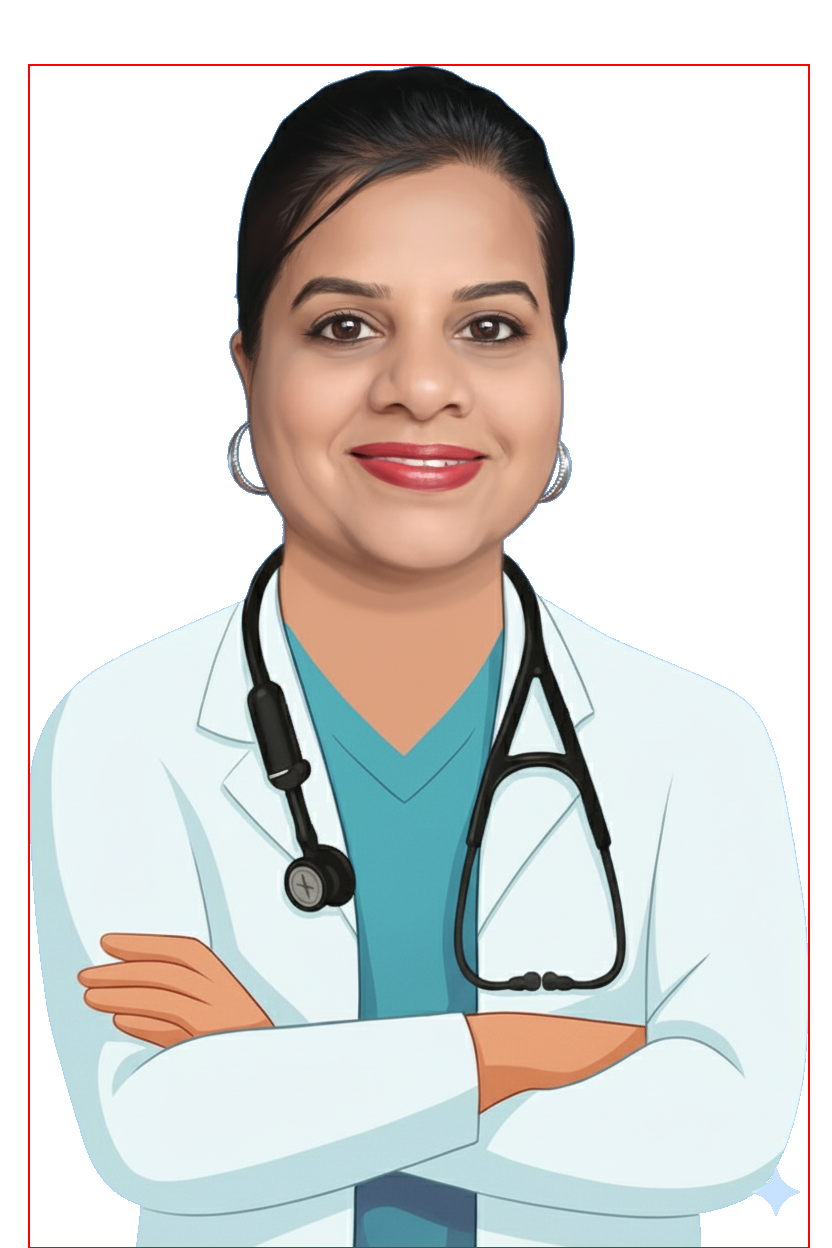
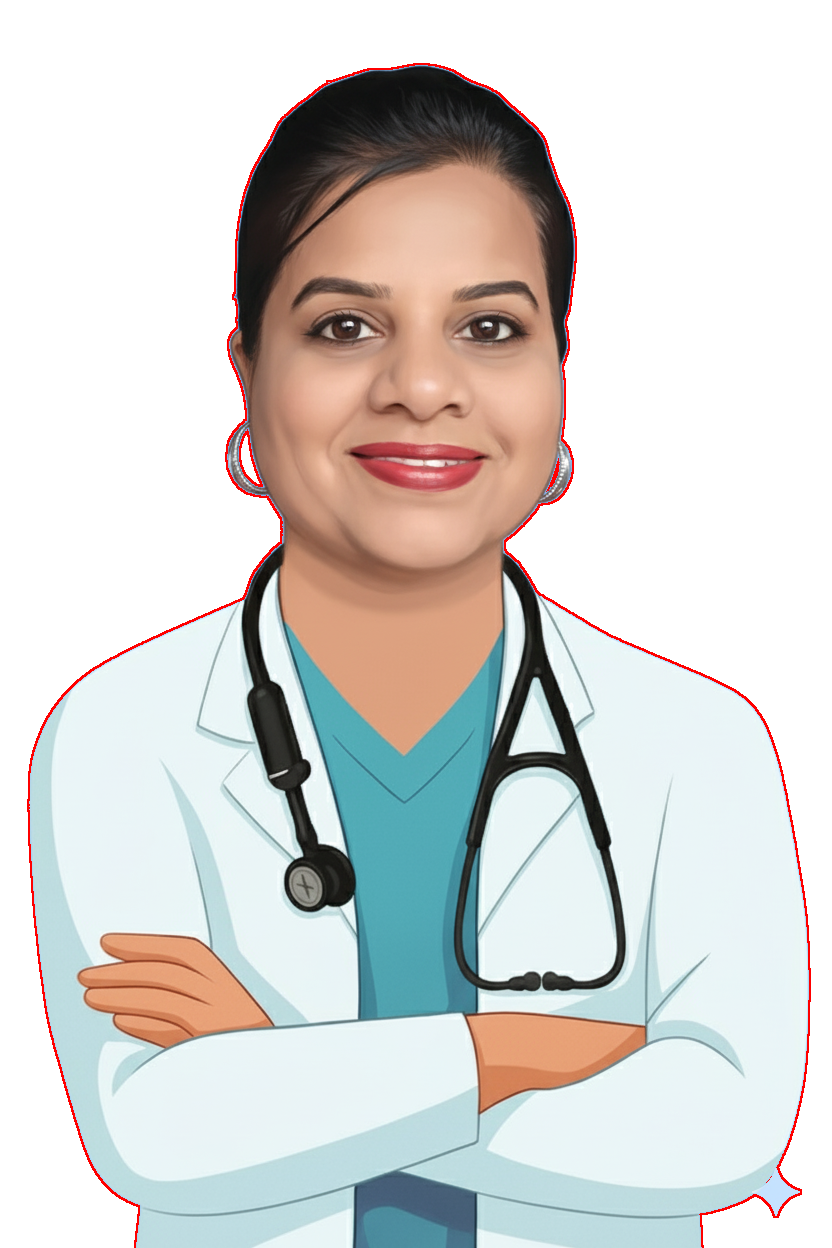
Fix border addition to follow subject silhouette contour
- Rewrite border algorithm to use morphological dilation instead of bounding box
- Border now follows exact shape/contour of subject, not rectangular frame
- Add scipy dependency for binary dilation operations
- Update README with corrected algorithm explanation and visual representation
- Update example output image to show contour-following border
- Add scipy>=1.10.0 to requirements.txt (both root and module)

The border now wraps around the actual person shape using pixel-by-pixel dilation.

diff --git a/border-addition/add_border.py b/border-addition/add_border.py
@@ -1,15 +1,16 @@
 #!/usr/bin/env python3
 """
 Border Addition Module
-Adds colored borders around the subject (non-transparent area) in transparent PNG images.
+Adds colored borders around the subject silhouette in transparent PNG images.
 """
 
 import os
 import sys
 import argparse
 from pathlib import Path
-from PIL import Image, ImageDraw
+from PIL import Image
 import numpy as np
+from scipy.ndimage import binary_dilation
 
 
 def hex_to_rgb(hex_color):
@@ -18,47 +19,9 @@ def hex_to_rgb(hex_color):
     return tuple(int(hex_color[i:i+2], 16) for i in (0, 2, 4))
 
 
-def get_subject_bbox(img):
-    """
-    Get bounding box of non-transparent pixels (the subject).
-
-    Args:
-        img: PIL Image in RGBA mode
-
-    Returns:
-        tuple: (left, top, right, bottom) or None if no non-transparent pixels found
-    """
-    # Convert to numpy array
-    data = np.array(img)
-
-    # Get alpha channel
-    alpha = data[:, :, 3]
-
-    # Find non-transparent pixels (alpha > 0)
-    non_transparent = alpha > 0
-
-    # Find rows and columns with non-transparent pixels
-    rows = np.any(non_transparent, axis=1)
-    cols = np.any(non_transparent, axis=0)
-
-    if not rows.any() or not cols.any():
-        return None
-
-    # Get bounding box
-    row_indices = np.where(rows)[0]
-    col_indices = np.where(cols)[0]
-
-    top = row_indices[0]
-    bottom = row_indices[-1]
-    left = col_indices[0]
-    right = col_indices[-1]
-
-    return (left, top, right, bottom)
-
-
 def add_border_to_subject(input_path, output_path, border_color='#FF0000', border_width=2):
     """
-    Add border around the subject (non-transparent area) in transparent PNG.
+    Add border around the subject silhouette (following the contour) in transparent PNG.
 
     Args:
         input_path (str): Path to input PNG file (with transparency)
@@ -78,42 +41,44 @@ def add_border_to_subject(input_path, output_path, border_color='#FF0000', borde
             print(f"⚠ Warning: {input_path} is not in RGBA mode. Converting...")
             img = img.convert('RGBA')
 
-        # Get bounding box of subject
-        bbox = get_subject_bbox(img)
+        # Convert to numpy array
+        data = np.array(img)
 
-        if bbox is None:
+        # Get alpha channel
+        alpha = data[:, :, 3]
+
+        # Create binary mask of non-transparent pixels (subject)
+        subject_mask = alpha > 0
+
+        if not subject_mask.any():
             print(f"⚠ Warning: No non-transparent pixels found in {input_path}")
             # Still save the image (no border added)
             os.makedirs(os.path.dirname(output_path) if os.path.dirname(output_path) else '.', exist_ok=True)
             img.save(output_path, 'PNG')
             return True
 
-        # Create a copy to draw on
-        result = img.copy()
-        draw = ImageDraw.Draw(result)
+        # Dilate the subject mask to expand it by border_width pixels
+        # Use a circular structuring element for smooth borders
+        structure = np.ones((3, 3), dtype=bool)
+        dilated_mask = subject_mask.copy()
+        for _ in range(border_width):
+            dilated_mask = binary_dilation(dilated_mask, structure=structure)
 
-        # Convert border color to RGB
+        # Border pixels are: dilated - original
+        border_mask = dilated_mask & ~subject_mask
+
+        # Create output image starting from input
+        result_data = data.copy()
+
+        # Convert border color to RGBA
         border_rgb = hex_to_rgb(border_color)
+        border_rgba = border_rgb + (255,)
 
-        # Draw border around the bounding box
-        left, top, right, bottom = bbox
+        # Apply border color to border pixels
+        result_data[border_mask] = border_rgba
 
-        # Draw multiple rectangles for border width
-        for i in range(border_width):
-            # Outer rectangle coordinates
-            x0 = left - i
-            y0 = top - i
-            x1 = right + i
-            y1 = bottom + i
-
-            # Ensure coordinates are within image bounds
-            x0 = max(0, x0)
-            y0 = max(0, y0)
-            x1 = min(img.width - 1, x1)
-            y1 = min(img.height - 1, y1)
-
-            # Draw rectangle outline
-            draw.rectangle([x0, y0, x1, y1], outline=border_rgb + (255,), width=1)
+        # Convert back to PIL Image
+        result = Image.fromarray(result_data, 'RGBA')
 
         # Ensure output directory exists
         os.makedirs(os.path.dirname(output_path) if os.path.dirname(output_path) else '.', exist_ok=True)
@@ -121,14 +86,18 @@ def add_border_to_subject(input_path, output_path, border_color='#FF0000', borde
         # Save as PNG
         result.save(output_path, 'PNG')
 
+        border_pixel_count = np.sum(border_mask)
         print(f"✓ Successfully processed: {input_path}")
-        print(f"  → Border: {border_color} ({border_width}px) around subject at bbox {bbox}")
+        print(f"  → Border: {border_color} ({border_width}px) around subject silhouette")
+        print(f"  → Border pixels added: {border_pixel_count}")
         print(f"  → Saved to: {output_path}")
 
         return True
 
     except Exception as e:
         print(f"✗ Error processing {input_path}: {str(e)}", file=sys.stderr)
+        import traceback
+        traceback.print_exc()
         return False
 
 
@@ -177,7 +146,7 @@ def process_directory(input_dir, output_dir, border_color='#FF0000', border_widt
 
 def main():
     parser = argparse.ArgumentParser(
-        description='Add colored borders around subjects in transparent PNG images.',
+        description='Add colored borders around subject silhouettes in transparent PNG images.',
         formatter_class=argparse.RawDescriptionHelpFormatter,
         epilog="""
 Examples:

diff --git a/border-addition/README.md b/border-addition/README.md
@@ -2,24 +2,24 @@
 
 **Part of DiffusionID Project**
 
-Adds colored borders around the subject (non-transparent area) in transparent PNG images. Automatically detects the silhouette boundary and draws a configurable border around it.
+Adds colored borders around the subject silhouette in transparent PNG images. Automatically detects the silhouette boundary and draws a configurable border that follows the actual contour of the subject.
 
 ## Visual Examples
 
 | Input (transparent PNG) | Output (with red border) |
 |:-----------------------:|:------------------------:|
 | ![Input](examples/input_transparent.png) | ![Output](examples/output_bordered.png) |
-| Transparent background, no border | Red 2px border around subject |
+| Transparent background, no border | Red 2px border around subject silhouette |
 
 **Sample images available in:** `examples/` directory
 
 ## Features
 
-- **Automatic subject detection** using transparency analysis
+- **Silhouette contour following** using morphological dilation
 - **Configurable border width** (default: 2px)
 - **Customizable border color** (default: red #FF0000)
 - **Batch processing** for multiple images
-- **Precise boundary detection** around subject silhouette
+- **Precise boundary detection** around subject shape
 - **Preserves transparency** in output
 
 ## Installation
@@ -69,28 +69,33 @@ python add_border.py -d input/ -o output/ -c "#FF0000" -w 3
 
 ## How It Works
 
-### Subject Detection Algorithm
+### Silhouette Border Algorithm
 
 1. **Load PNG image** with transparency
-2. **Analyze alpha channel** to find non-transparent pixels
-3. **Calculate bounding box** around all non-transparent areas (the subject)
-4. **Draw border** around the bounding box with specified color and width
-5. **Save result** as PNG with transparency preserved
+2. **Analyze alpha channel** to create a binary mask of the subject
+3. **Dilate the mask** using morphological dilation to expand subject pixels outward
+4. **Calculate border pixels** by subtracting original mask from dilated mask
+5. **Apply border color** to border pixels while preserving the original subject
+6. **Save result** as PNG with transparency preserved
 
-### Border Drawing
+### Border Drawing Technique
 
-The border is drawn **around the subject's bounding box**, not around every pixel edge. This creates a clean rectangular frame around the silhouette.
+The border follows the **exact contour/silhouette** of the subject using morphological dilation. This creates a border that wraps around the actual shape of the person, not just a rectangular box.
 
+**How dilation works:**
+- Each iteration expands the subject by 1 pixel in all directions
+- The number of iterations equals the border width
+- Border pixels are the difference between dilated and original masks
+
+**Visual representation:**
 ```
-┌─────────────────┐
-│                 │
-│   ┌─────────┐   │  ← Image boundaries
-│   │ Subject │   │
-│   │  with   │   │  ← Subject (non-transparent)
-│   │ Border  │   │
-│   └─────────┘   │  ← Border (configurable width & color)
-│                 │
-└─────────────────┘
+Original subject → Dilated by 2px → Border is the difference
+
+   ●●●●              ▓▓▓▓▓▓           ▓▓▓▓▓▓
+  ●●●●●●            ▓▓●●●●●●▓          ▓▓░░░░▓▓
+ ●●●●●●●●          ▓▓●●●●●●●●▓        ▓▓░░░░░░▓▓
+●●●●●●●●●●        ▓▓●●●●●●●●●●▓      ▓▓░░░░░░░░▓▓
+                                    (border pixels)
 ```
 
 ## Supported Formats
@@ -146,7 +151,7 @@ This module is designed to work seamlessly with the background-removal module:
 cd background-removal
 python remove_background.py -d ../input-sample/images -o output/
 
-# Step 2: Add red border to subjects
+# Step 2: Add red border around silhouettes
 cd ../border-addition
 python add_border.py -d ../background-removal/output -o output/
 ```
@@ -172,10 +177,11 @@ Use any valid 6-digit hex color code for custom colors.
 
 ## Technical Details
 
-- **Algorithm:** Alpha channel analysis + bounding box calculation
-- **Precision:** Pixel-perfect boundary detection
-- **Performance:** Optimized with NumPy for fast processing
+- **Algorithm:** Morphological dilation with binary masks (scipy.ndimage)
+- **Precision:** Pixel-perfect silhouette contour following
+- **Performance:** Optimized with NumPy array operations
 - **Transparency:** Fully preserved in output
+- **Border style:** Follows actual subject shape, not rectangular bounding box
 
 ## Troubleshooting
 
@@ -188,9 +194,9 @@ Use any valid 6-digit hex color code for custom colors.
 - **Adjust width:** Use `-w` parameter (1-100)
 - **Preview first:** Test on single image before batch processing
 
-### Border cuts off subject
-- **This shouldn't happen:** Border is drawn outside bounding box
-- **Check input:** Ensure subject isn't touching image edges
+### Border clips at edges
+- **Image boundaries:** Border may be clipped if subject touches image edges
+- **Solution:** Add padding to input image before processing
 
 ### Input not transparent
 - **Run background removal first:** Use background-removal module
@@ -201,6 +207,7 @@ Use any valid 6-digit hex color code for custom colors.
 - Python 3.7+
 - Pillow (PIL) 10.0.0+
 - NumPy 1.24.0+
+- SciPy 1.10.0+
 
 ## Project Structure
 
@@ -228,3 +235,4 @@ Batch processing is highly efficient for directories with many images.
 **Status:** Production-Ready
 **Default Border Color:** #FF0000 (Red)
 **Default Border Width:** 2px (Configurable)
+**Border Type:** Silhouette contour following
